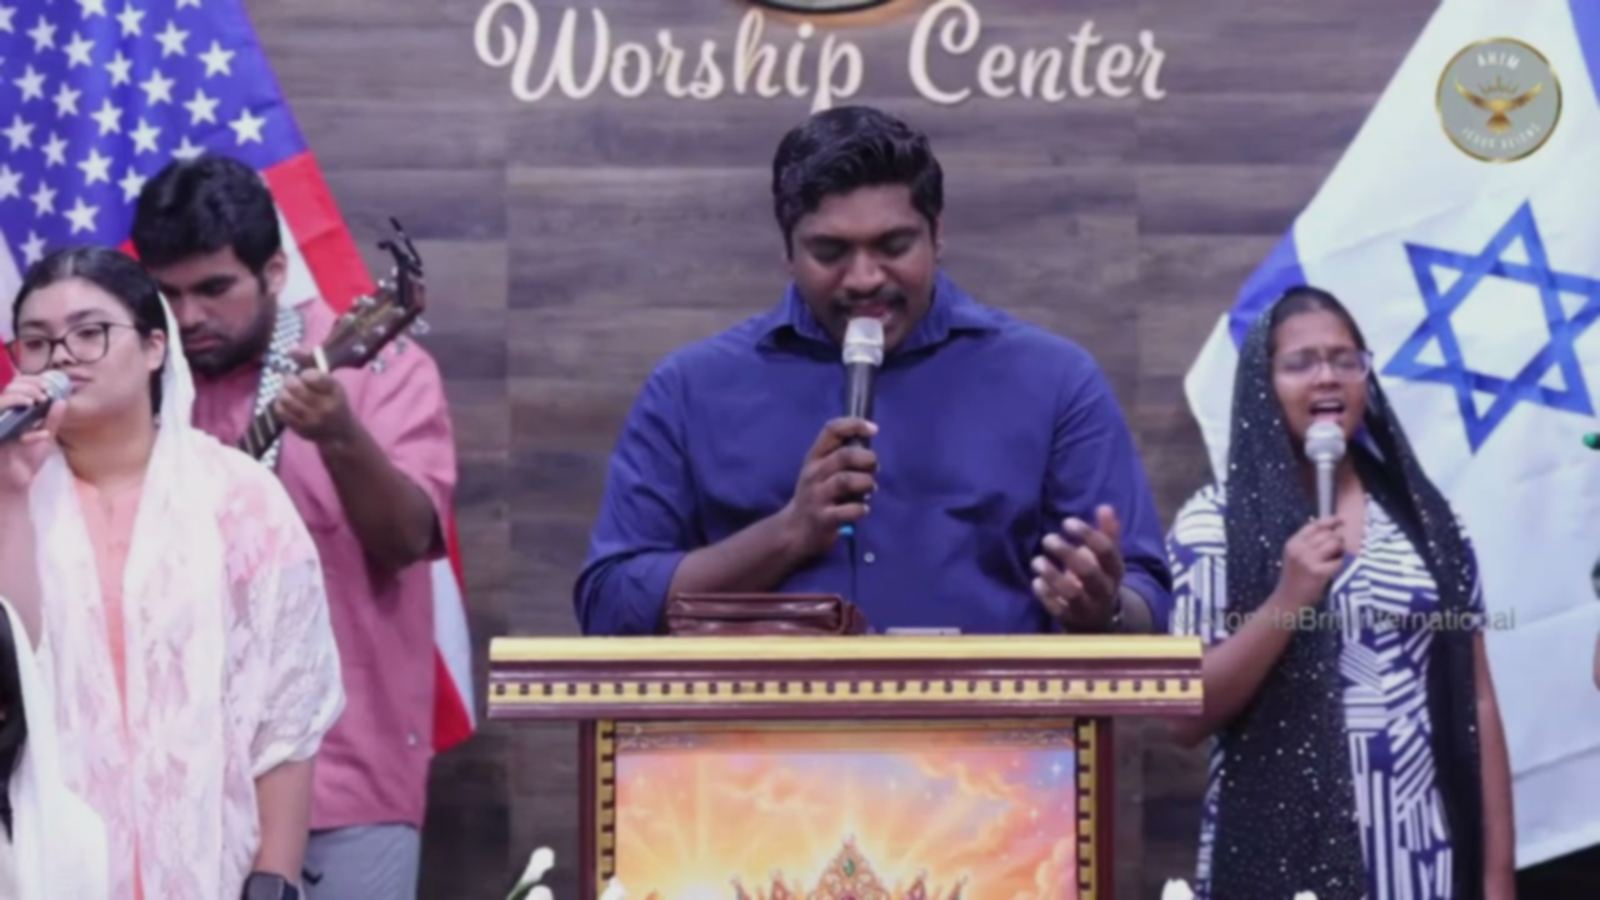
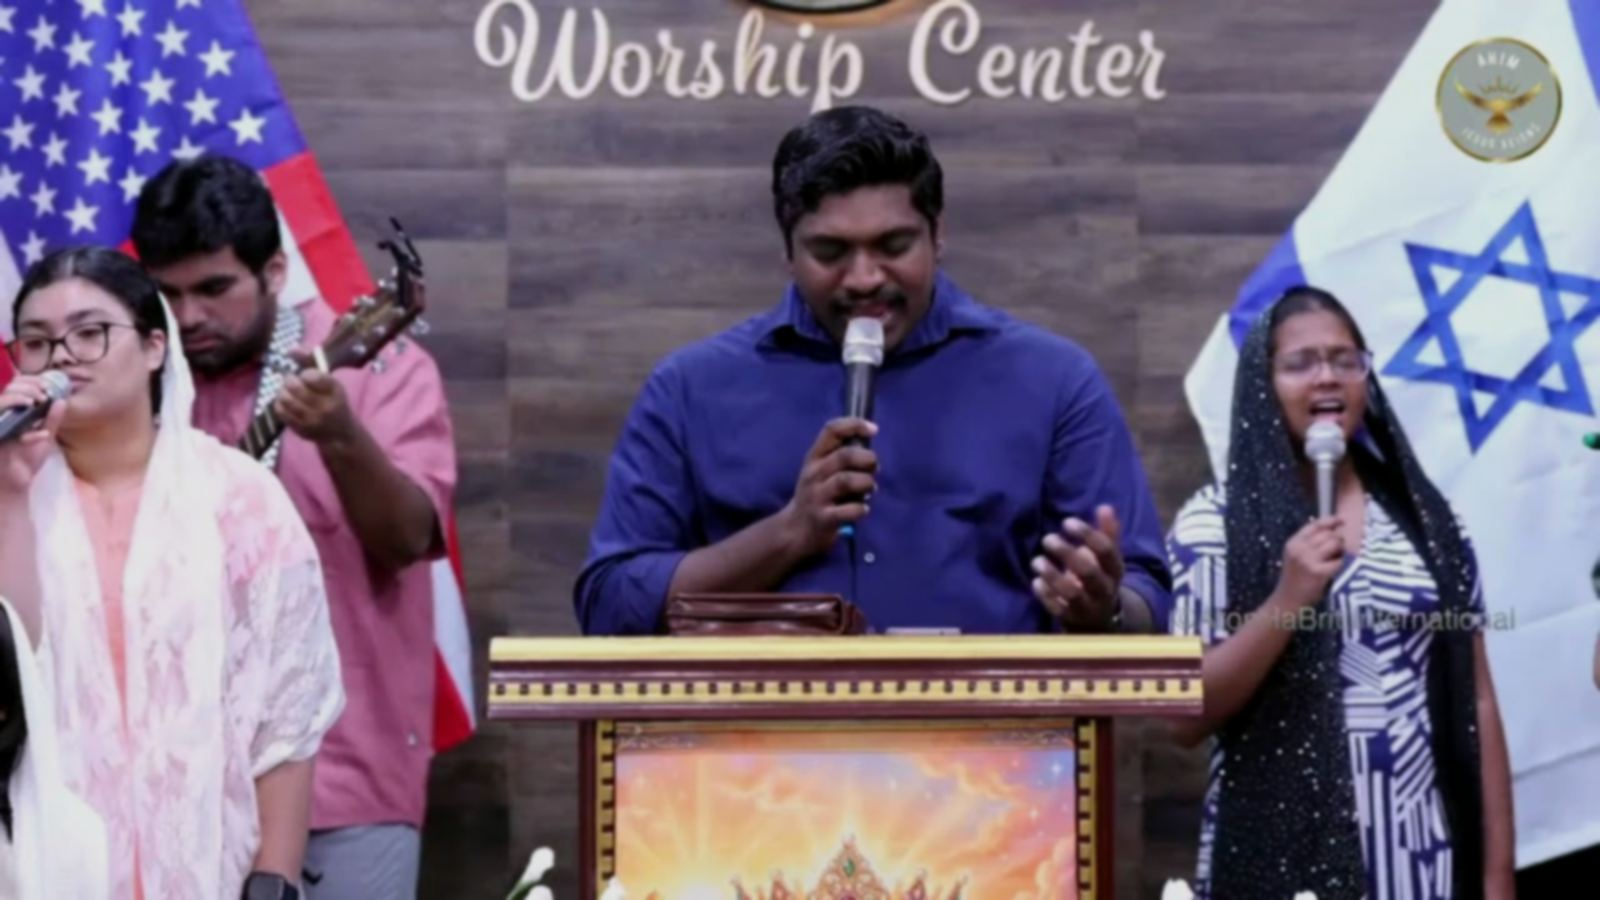
Animate the hero, caption the collage, and add baptism and kids photos
The hero now drifts and crossfades between two congregation photos
(Ken Burns style, disabled under prefers-reduced-motion). The About
collage gains captions and swaps two stage shots for a baptism photo
and the kids-ministry group photo found in the channel's videos.
All site photos regraded for consistent exposure and color.

Claude-Session: https://claude.ai/code/session_01FfF36Fv3h1BN9QbbmDPPvZ

diff --git a/index.html b/index.html
@@ -134,19 +134,45 @@
 
   /* ---------- Hero ---------- */
   .hero {
-    position: relative;
-    background: var(--navy) url("assets/hero-photo.jpg") center 22% / cover no-repeat;
+    position: relative; overflow: hidden;
+    background: var(--navy);
     color: #fff;
     padding: 6.5rem 0 5.5rem;
   }
+  .hero-media { position: absolute; inset: 0; z-index: 0; }
+  .hero-media img {
+    position: absolute; inset: 0; width: 100%; height: 100%;
+    object-fit: cover; object-position: center 30%;
+    will-change: transform, opacity;
+  }
+  .hero-media .frame-a { animation: drift-a 30s ease-in-out infinite alternate, fade-a 44s ease-in-out infinite; }
+  .hero-media .frame-b { opacity: 0; animation: drift-b 30s ease-in-out infinite alternate, fade-b 44s ease-in-out infinite; }
+  @keyframes drift-a {
+    from { transform: scale(1.02); }
+    to   { transform: scale(1.1) translate(-1.5%, -2%); }
+  }
+  @keyframes drift-b {
+    from { transform: scale(1.1) translate(1.5%, -1.5%); }
+    to   { transform: scale(1.02); }
+  }
+  @keyframes fade-a {
+    0%, 42% { opacity: 1; } 50%, 92% { opacity: 0; } 100% { opacity: 1; }
+  }
+  @keyframes fade-b {
+    0%, 42% { opacity: 0; } 50%, 92% { opacity: 1; } 100% { opacity: 0; }
+  }
   /* Darkening veil so the verse stays legible over the photo */
   .hero::before {
-    content: ""; position: absolute; inset: 0;
+    content: ""; position: absolute; inset: 0; z-index: 1;
     background:
       linear-gradient(100deg, rgba(16, 24, 43, 0.86) 0%, rgba(17, 26, 46, 0.72) 42%, rgba(19, 29, 50, 0.40) 100%),
       linear-gradient(to bottom, rgba(15, 23, 40, 0.38), rgba(15, 23, 40, 0.22));
   }
-  .hero .container { position: relative; z-index: 1; }
+  .hero .container { position: relative; z-index: 2; }
+  @media (prefers-reduced-motion: reduce) {
+    .hero-media img { animation: none; }
+    .hero-media .frame-b { display: none; }
+  }
   .hero h1 {
     font-style: italic; font-weight: 500;
     font-size: clamp(2.3rem, 5.2vw, 3.9rem);
@@ -209,9 +235,15 @@
     display: grid; grid-template-columns: 1.55fr 1fr;
     grid-template-rows: 232px 232px; gap: 1.1rem;
   }
-  .about-collage > div { border-radius: 12px; overflow: hidden; }
+  .about-collage > div { position: relative; border-radius: 12px; overflow: hidden; }
   .about-collage .collage-main { grid-row: 1 / 3; }
   .about-collage img { width: 100%; height: 100%; object-fit: cover; object-position: center 35%; }
+  .collage-cap {
+    position: absolute; left: 0; right: 0; bottom: 0;
+    padding: 2.6rem 1.1rem 0.8rem;
+    background: linear-gradient(to top, rgba(16, 24, 42, 0.82) 40%, transparent);
+    color: #fff; font-size: 0.82rem; font-weight: 500; letter-spacing: 0.01em;
+  }
 
   /* ---------- Photo band ---------- */
   .photo-band {
@@ -452,6 +484,10 @@
 
   <!-- Hero -->
   <section class="hero">
+    <div class="hero-media" aria-hidden="true">
+      <img class="frame-a" src="assets/hero-photo.jpg" alt="">
+      <img class="frame-b" src="assets/hero-photo-2.jpg" alt="" loading="lazy">
+    </div>
     <div class="container">
       <h1>&ldquo;You shall also be a crown of glory in the hand of the LORD&rdquo;</h1>
       <p class="verse-ref">Isaiah 62:3</p>
@@ -505,12 +541,15 @@
     <div class="container about-collage">
       <div class="collage-main">
         <img src="assets/worship-service.jpg" alt="The worship team leading the congregation at the Worship Center" loading="lazy">
+        <span class="collage-cap">Sunday worship at the Worship Center</span>
       </div>
       <div>
-        <img src="assets/about-2.jpg" alt="Musicians leading a song at the keyboard and guitar" loading="lazy">
+        <img src="assets/baptism.jpg" alt="A believer being baptized in the river" loading="lazy">
+        <span class="collage-cap">Baptism day</span>
       </div>
       <div>
-        <img src="assets/about-3.jpg" alt="Singers leading worship in front of the flags" loading="lazy">
+        <img src="assets/kids-ministry.jpg" alt="Children and teachers of the kids ministry" loading="lazy">
+        <span class="collage-cap">Kids ministry</span>
       </div>
     </div>
   </section>
